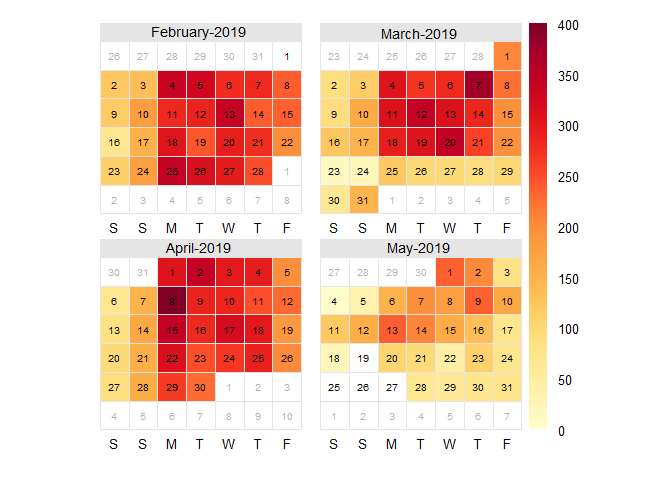
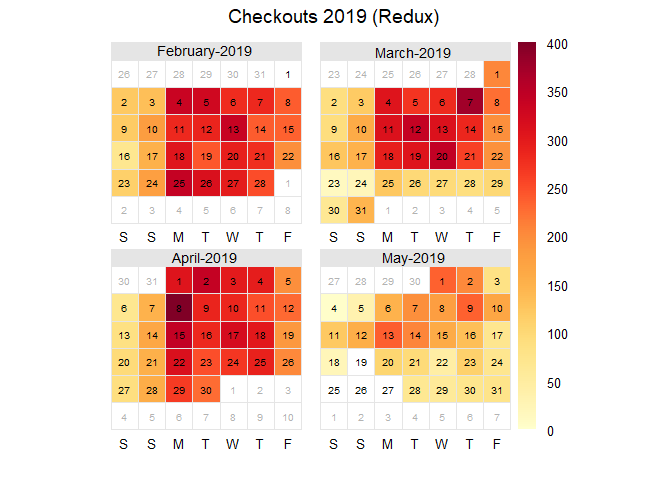
Readme update

diff --git a/README.md b/README.md
@@ -1,8 +1,4 @@
 
-<!-- README.md is generated from README.Rmd. Please edit that file -->
-
-<!-- You'll still need to render `README.Rmd` regularly, to keep `README.md` up-to-date. `devtools::build_readme()` is handy for this.  -->
-
 # RCLC <img src='man/figures/logo.png' align="right" height="138.5" /></a>
 
 <!-- badges: start -->
@@ -20,8 +16,8 @@ The development version of Reed College Library Checkout is available
 from [GitHub](https://github.com/Reed-Math241/pkgGrpn) with:
 
 ``` r
-# install.packages("devtools")
-devtools::install_github("Reed-Math241/pkgGrpn")
+library(devtools)
+install_github("Reed-Math241/pkgGrpn")
 ```
 
 ## Usage
@@ -34,7 +30,8 @@ library(RCLC)
 checkouts <- reed_checkouts # Also possible to use RCLC::reed_checkouts
 ```
 
-Or alternatively, use the built-in `get_checkouts` function:
+Alternatively, the built-in `get_checkouts` function is analogous to
+`reed_checkouts`:
 
 ``` r
 library(RCLC)
@@ -66,30 +63,12 @@ score_checkouts <- get_checkouts(location = "Score")
 ## Example
 
 Here is an example of our data in action\! This is a heatmap (over a
-calendar) of checkout data by day in 2019.
+calendar) of checkout data by day in 2019 v. 2020.
 
 ``` r
-library(dplyr)
 library(openair)
+library(dplyr)
 
-reed_checkouts %>%
-  group_by(Loaned) %>%
-  summarise(checkouts = n()) %>%
-  rename(date=Loaned) %>%
-  calendarPlot(pollutant = "checkouts", 
-               main="Library Checkouts",
-               year = 2019)
-```
-
-<img src="man/figures/README-unnamed-chunk-6-1.png" width="100%" />
-
------
-
-## 2019 v. 2020
-
-Here is some sample code to compare two years
-
-``` r
 filtered <- reed_checkouts %>%
   filter(as.numeric(strftime(Loaned, "%m")) %in% 2:5) %>%
   group_by(Loaned) %>%
@@ -108,7 +87,7 @@ calendarPlot(filtered,
 )
 ```
 
-<img src="man/figures/README-unnamed-chunk-8-1.png" width="100%" />
+<img src="man/figures/README-unnamed-chunk-7-1.png" width="100%" />
 
 ``` r
 calendarPlot(filtered,
@@ -119,4 +98,4 @@ calendarPlot(filtered,
 )
 ```
 
-<img src="man/figures/README-unnamed-chunk-9-1.png" width="100%" />
+<img src="man/figures/README-unnamed-chunk-8-1.png" width="100%" />
